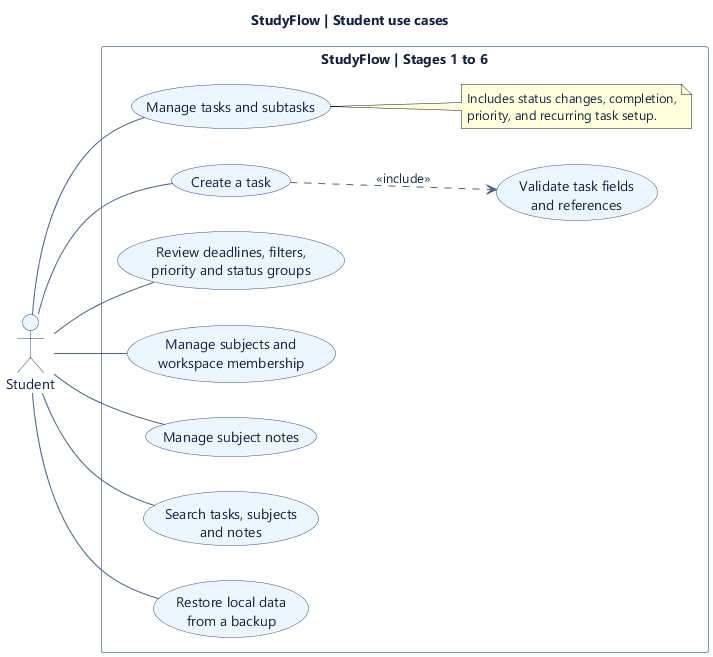
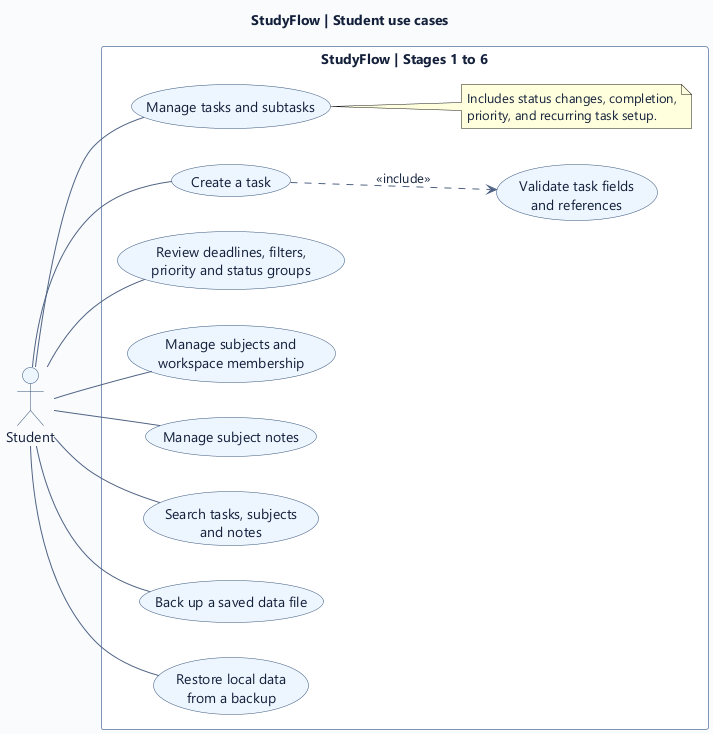
stage-6-manual-backup

diff --git a/src/test/java/com/studyflow/config/StudyFlowContextTest.java b/src/test/java/com/studyflow/config/StudyFlowContextTest.java
@@ -20,6 +20,8 @@ import java.time.ZoneOffset;
 import java.util.List;
 import org.junit.jupiter.api.Test;
 import org.junit.jupiter.api.io.TempDir;
+import org.junit.jupiter.params.ParameterizedTest;
+import org.junit.jupiter.params.provider.ValueSource;
 
 import static org.junit.jupiter.api.Assertions.*;
 
@@ -184,6 +186,108 @@ class StudyFlowContextTest {
         assertTrue(messages(failure).contains("Unknown subject ID"));
         assertFalse(Files.exists(subjects));
         assertEquals(noteBytes, Files.readString(notes));
+    }
+
+    @ParameterizedTest
+    @ValueSource(strings = {"tasks", "subjects", "workspaces", "notes", "settings"})
+    void manuallyBacksUpExactBytesOfFirstSavedVersion(String type) throws IOException {
+        saveLinkedProfile();
+        Path live = dataDirectory.resolve(type).resolve(type + ".json");
+        byte[] expected = Files.readAllBytes(live);
+        assertTrue(backupFiles().isEmpty());
+
+        Path backup = StudyFlowContext.backup(dataDirectory, type);
+
+        assertEquals(dataDirectory.resolve("backups"), backup.getParent());
+        assertTrue(backup.getFileName().toString().startsWith(type + "-manual-"));
+        assertTrue(backup.getFileName().toString().endsWith(".json"));
+        assertArrayEquals(expected, Files.readAllBytes(backup));
+        assertArrayEquals(expected, Files.readAllBytes(live));
+        assertEquals(List.of(backup), backupFiles());
+    }
+
+    @Test
+    void repeatedManualBackupsAreDistinctAndCanBeRestored() throws IOException {
+        String taskId;
+        try (StudyFlowContext profile = StudyFlowContext.open(dataDirectory, CLOCK)) {
+            taskId = profile.taskManager().quickAdd("First version", null, TODAY, null).getId();
+        }
+        Path first = StudyFlowContext.backup(dataDirectory, "tasks");
+        Path second = StudyFlowContext.backup(dataDirectory, "tasks");
+        assertNotEquals(first, second);
+        assertArrayEquals(Files.readAllBytes(first), Files.readAllBytes(second));
+        try (StudyFlowContext profile = StudyFlowContext.open(dataDirectory, CLOCK)) {
+            profile.taskManager().update(taskId, task -> task.setTitle("Later version"));
+        }
+
+        StudyFlowContext.restore(dataDirectory, "tasks", first);
+
+        try (StudyFlowContext profile = StudyFlowContext.open(dataDirectory, CLOCK)) {
+            assertEquals("First version", profile.taskManager().findById(taskId).orElseThrow().getTitle());
+        }
+        assertTrue(Files.isRegularFile(first));
+        assertTrue(Files.isRegularFile(second));
+    }
+
+    @Test
+    void rejectsManualBackupWhenTheSelectedFileHasNeverBeenSaved() throws IOException {
+        Path live = dataDirectory.resolve("tasks/tasks.json");
+
+        StorageException failure = assertThrows(StorageException.class,
+                () -> StudyFlowContext.backup(dataDirectory, "tasks"));
+
+        assertEquals(live, failure.getPath());
+        assertFalse(Files.exists(live));
+        assertTrue(backupFiles().isEmpty());
+    }
+
+    @Test
+    void rejectsManualBackupForACorruptedProfileAndPreservesExistingFiles() throws IOException {
+        saveLinkedProfile();
+        Path validBackup = StudyFlowContext.backup(dataDirectory, "tasks");
+        byte[] backupBytes = Files.readAllBytes(validBackup);
+        Path notes = dataDirectory.resolve("notes/notes.json");
+        Files.writeString(notes, "{ damaged");
+
+        StorageException failure = assertThrows(StorageException.class,
+                () -> StudyFlowContext.backup(dataDirectory, "tasks"));
+
+        assertEquals(notes, failure.getPath());
+        assertEquals("{ damaged", Files.readString(notes));
+        assertEquals(List.of(validBackup), backupFiles());
+        assertArrayEquals(backupBytes, Files.readAllBytes(validBackup));
+        assertArrayEquals(backupBytes, Files.readAllBytes(dataDirectory.resolve("tasks/tasks.json")));
+    }
+
+    @Test
+    void manualBackupRespectsTheProfileLock() throws IOException {
+        try (StudyFlowContext profile = StudyFlowContext.open(dataDirectory, CLOCK)) {
+            profile.taskManager().quickAdd("Locked task", null, TODAY, null);
+
+            IOException failure = assertThrows(IOException.class,
+                    () -> StudyFlowContext.backup(dataDirectory, "tasks"));
+
+            assertTrue(failure.getMessage().contains(dataDirectory.toString()));
+            assertTrue(backupFiles().isEmpty());
+            assertEquals("Locked task", profile.taskManager().findAll().getFirst().getTitle());
+        }
+        assertTrue(Files.isRegularFile(StudyFlowContext.backup(dataDirectory, "tasks")));
+    }
+
+    private void saveLinkedProfile() throws IOException {
+        try (StudyFlowContext profile = StudyFlowContext.open(dataDirectory, CLOCK)) {
+            String subjectId = profile.subjectManager().create("Physics", "PHY", "", List.of()).getId();
+            profile.workspaceManager().create("Autumn", "", List.of(subjectId));
+            profile.taskManager().quickAdd("Problem set", subjectId, TODAY, Priority.HIGH);
+            profile.noteManager().create("Lecture", "Practice the example", subjectId, List.of());
+            profile.saveSettings(profile.settings());
+        }
+    }
+
+    private List<Path> backupFiles() throws IOException {
+        try (var files = Files.list(dataDirectory.resolve("backups"))) {
+            return files.sorted().toList();
+        }
     }
 
     private Path firstBackup(String prefix) throws IOException {

diff --git a/src/main/java/com/studyflow/repository/FileStorage.java b/src/main/java/com/studyflow/repository/FileStorage.java
@@ -110,6 +110,18 @@ public final class FileStorage implements AutoCloseable {
         replace(path, bytes, previousBytes, false);
     }
 
+    /** Copies the exact current bytes of a validated snapshot to a new timestamped backup. */
+    synchronized <D, T> Path backup(Path path, JavaType type, Function<D, T> decode) {
+        ensureOpen();
+        byte[] bytes = readIfPresent(path);
+        if (bytes == null) {
+            throw new StorageException(path, "No saved data file to back up", null);
+        }
+        D document = readDocument(path, bytes, type);
+        validate(path, document, decode);
+        return writeBackup(path, bytes, "-manual-");
+    }
+
     /** Decodes and validates the exact backup bytes that will replace the live file. */
     synchronized <D, T> void restore(Path path, Path backup, JavaType type, Function<D, T> decode,
                                     Consumer<T> validateCandidate) {
@@ -179,7 +191,7 @@ public final class FileStorage implements AutoCloseable {
         Path pending = stage(path, bytes);
         try {
             if (previousBytes != null) {
-                backup(path, previousBytes, restoring);
+                writeBackup(path, previousBytes, restoring ? "-before-restore-" : "-");
             }
             moveIntoPlace(pending, path);
         } finally {
@@ -187,10 +199,9 @@ public final class FileStorage implements AutoCloseable {
         }
     }
 
-    private void backup(Path path, byte[] bytes, boolean restoring) {
+    private Path writeBackup(Path path, byte[] bytes, String marker) {
         String file = path.getFileName().toString();
         String prefix = file.substring(0, file.lastIndexOf('.'));
-        String marker = restoring ? "-before-restore-" : "-";
         Path backup = backupDirectory.resolve(prefix + marker + BACKUP_TIME.format(Instant.now())
                 + "-" + UUID.randomUUID() + ".json");
         Path pending = stage(backup, bytes);
@@ -199,6 +210,7 @@ public final class FileStorage implements AutoCloseable {
         } finally {
             removeTemporaryFile(pending);
         }
+        return backup;
     }
 
     private static Path stage(Path path, byte[] bytes) {

diff --git a/src/main/java/com/studyflow/Main.java b/src/main/java/com/studyflow/Main.java
@@ -22,16 +22,27 @@ import javax.swing.JFrame;
 import javax.swing.JOptionPane;
 import javax.swing.SwingUtilities;
 
-/** Configures and starts the Swing desktop application. */
+/** Starts the Swing desktop application or runs a local data command. */
 public final class Main {
     private Main() {
     }
 
     public static void main(String[] args) throws IOException {
-        int restoreIndex = args.length > 0 && "--data-dir".equals(args[0]) ? 2 : 0;
-        if (args.length > restoreIndex && "--restore".equals(args[restoreIndex])) {
-            restore(args, restoreIndex);
-            return;
+        int commandIndex = args.length > 0 && "--data-dir".equals(args[0]) ? 2 : 0;
+        if (args.length > commandIndex) {
+            switch (args[commandIndex]) {
+                case "--backup" -> {
+                    backup(args, commandIndex);
+                    return;
+                }
+                case "--restore" -> {
+                    restore(args, commandIndex);
+                    return;
+                }
+                default -> {
+                    // Normal launch arguments are validated by AppConfig.
+                }
+            }
         }
         AppConfig config = AppConfig.fromArgs(args);
         if (GraphicsEnvironment.isHeadless()) {
@@ -42,6 +53,16 @@ public final class Main {
         CompletableFuture<Void> finished = new CompletableFuture<>();
         worker.execute(() -> initialize(config, worker, finished));
         finished.join();
+    }
+
+    private static void backup(String[] args, int commandIndex) throws IOException {
+        if (args.length != commandIndex + 2) {
+            throw new IllegalArgumentException("Usage: StudyFlow [--data-dir <directory>] "
+                    + "--backup <tasks|subjects|workspaces|notes|settings>");
+        }
+        AppConfig config = AppConfig.fromArgs(Arrays.copyOf(args, commandIndex));
+        Path backup = StudyFlowContext.backup(config.dataDirectory(), args[commandIndex + 1]);
+        System.out.println("Created backup " + backup);
     }
 
     private static void restore(String[] args, int restoreIndex) throws IOException {

diff --git a/src/main/java/com/studyflow/config/StudyFlowContext.java b/src/main/java/com/studyflow/config/StudyFlowContext.java
@@ -79,6 +79,29 @@ public final class StudyFlowContext implements AutoCloseable {
         }
     }
 
+    /** Locks and validates the profile before backing up one saved record type. */
+    public static Path backup(Path dataDirectory, String type) throws IOException {
+        Path directory = dataDirectory.toAbsolutePath().normalize();
+        try (DataDirectoryLock ignored = acquire(directory); FileStorage storage = new FileStorage(directory)) {
+            ProfileRepositories repositories = new ProfileRepositories(storage);
+            UserSettings settings = repositories.settings().load();
+            List<Subject> subjects = repositories.subjects().load();
+            List<Workspace> workspaces = repositories.workspaces().load();
+            List<Task> tasks = repositories.tasks().load();
+            List<Note> notes = repositories.notes().load();
+            validateProfile(directory, tasks, subjects, workspaces, notes, settings);
+
+            return switch (type) {
+                case "tasks" -> repositories.tasks().backup();
+                case "subjects" -> repositories.subjects().backup();
+                case "workspaces" -> repositories.workspaces().backup();
+                case "notes" -> repositories.notes().backup();
+                case "settings" -> repositories.settings().backup();
+                default -> throw new IllegalArgumentException("Unknown record type for backup: " + type);
+            };
+        }
+    }
+
     public static void restore(Path dataDirectory, String type, Path backup) throws IOException {
         Path directory = dataDirectory.toAbsolutePath().normalize();
         try (DataDirectoryLock ignored = acquire(directory); FileStorage storage = new FileStorage(directory)) {

diff --git a/src/main/java/com/studyflow/repository/JsonCollectionRepository.java b/src/main/java/com/studyflow/repository/JsonCollectionRepository.java
@@ -49,6 +49,11 @@ abstract class JsonCollectionRepository<T extends Identifiable, D> implements Re
         storage.write(path, listType, candidate, this::decode);
     }
 
+    /** Creates a timestamped backup of the current validated collection. */
+    public final Path backup() {
+        return storage.backup(path, listType, this::decode);
+    }
+
     /** Validates a selected backup and commits the same bytes after the supplied checks pass. */
     public final void restore(Path backup, Consumer<List<T>> validateCandidate) {
         storage.restore(path, backup, listType, this::decode, validateCandidate);

diff --git a/src/main/java/com/studyflow/repository/SettingsRepository.java b/src/main/java/com/studyflow/repository/SettingsRepository.java
@@ -35,6 +35,11 @@ public final class SettingsRepository implements Storage<UserSettings> {
         storage.write(path, type, SettingsRecord.from(settings), SettingsRecord::toDomain);
     }
 
+    /** Creates a timestamped backup of the current validated settings. */
+    public Path backup() {
+        return storage.backup(path, type, SettingsRecord::toDomain);
+    }
+
     public void restore(Path backup, Consumer<UserSettings> validateCandidate) {
         storage.restore(path, backup, type, SettingsRecord::toDomain, validateCandidate);
     }

diff --git a/docs/stage-reports/stage-6-report.md b/docs/stage-reports/stage-6-report.md
@@ -1,0 +1,45 @@
+# Stage 6 report · Persistence and manual backup
+
+## Objective
+
+Verify the existing local persistence against the continuation brief and add an on-demand backup that works with the existing recovery command.
+
+## Existing code inspected
+
+The project began at commit `7d05987` with a clean working tree. The Stage 1–5 reports, Maven configuration, model and service packages, repository contracts, Swing entry point, and tests confirmed that the previous stages were present. The persistence layer already had five typed JSON repositories, immediate saves, startup validation, automatic backup of previous versions, and validated per-file recovery. Before changes, a fresh offline build with OpenJDK 21.0.13 and Maven 3.9.16 passed all 62 tests. See the [initial Stage 6 report](stage-6.md) for the original implementation.
+
+## Features implemented
+
+- The `--backup` command backs up a saved task, subject, workspace, note or settings file and prints the absolute backup path. An optional `--data-dir` selects the profile.
+- `StudyFlowContext.backup` acquires the existing profile lock, reads all five repositories and validates their references. It then asks the selected repository to back up its current snapshot.
+- The repositories apply their usual typed validation. `FileStorage.backup` writes the exact validated bytes to a new timestamped file using the same temporary write and atomic move as automatic backups. Existing live files and backups are preserved.
+
+## Files created
+
+- `docs/stage-reports/stage-6-report.md`
+
+## Files modified
+
+- `Main.java` and `config/StudyFlowContext.java`
+- `repository/FileStorage.java`, `JsonCollectionRepository.java` and `SettingsRepository.java`
+- `src/test/java/com/studyflow/config/StudyFlowContextTest.java`
+- `README.md`, the SRS, architecture, design decisions, development log and use-case UML source and PNG
+
+## OOP concepts and dependencies
+
+The backup uses the same repository abstraction as normal persistence. The collection repository shares the implementation across the four collection types, and the settings repository supplies its own typed decoder. `FileStorage` encapsulates byte-level operations. Try-with-resources keeps the storage lifecycle and profile lock scoped to the command. This stage added no dependencies.
+
+## Tests performed and results
+
+- An offline `mvn clean test` on Windows compiled 57 main source files and passed **71 tests** with zero failures, errors or skips. Nine added cases cover first-save backups of all five data types, exact bytes, unique names, restore, missing files, corrupt profiles and lock contention.
+- A Windows Maven CLI smoke test backed up a fixture profile in a directory with spaces, restored the manual backup and verified that the damaged original was preserved.
+- A two-process Swing smoke test created a subject, a linked task, a workspace and a note in an isolated profile. A second launch displayed the same records and subject links.
+- PlantUML syntax checks passed, and the updated use-case diagram was rendered and visually checked.
+
+## Known limitations
+
+Manual backup and recovery operate on one data type per command. The profile must be closed so the command can acquire its lock. A manual backup requires a saved file and a valid profile. The destination filesystem must support atomic moves.
+
+## Next-stage dependencies
+
+Stage 7 can build the dashboard and navigation on the current task, subject, workspace, note and settings services. It can reuse the Swing shell, background executor and JSON repositories. Stage 7 is awaiting approval.

diff --git a/docs/SRS.md b/docs/SRS.md
@@ -87,7 +87,7 @@ Task register listings, search, filters, date views and Kanban grouping return r
 | DATA-02 | 6 | Store data under the configurable `data` directory in `tasks/tasks.json`, `subjects/subjects.json`, `workspaces/workspaces.json`, `notes/notes.json`, and `settings/settings.json`. Use stable enum names, ISO date and timestamp strings, explicit handling of optional fields, and subject IDs. Preserve subtask trees, subtype fields, and associations across reopen. |
 | DATA-03 | 6 | Create required directories at startup, load and validate existing data and its references, and initialize empty collections and default settings on a fresh installation. Meaningful errors shall identify the cause and affected path for corrupt or empty JSON, invalid dates and enum values, directory creation and file access errors, and serialization or deserialization failures. A failed load shall preserve existing files and prevent an unsafe writable session. |
 | DATA-04 | 6 | Automatically save successful mutations. Validate before publishing changes and preserve the prior state when an operation fails. Write serialized data to a temporary file and use safe replacement where supported. Skip redundant writes for unchanged data. Complete queued saves before closing the application and release file resources and executors. |
-| DATA-05 | 6 | Maintain timestamped local backups under `data/backups/`, preserving prior valid data and avoiding replacement of the only valid copy. Provide a documented manual restore workflow. Validate the selected backup and its relationships before enabling normal writes. Invalid or corrupt data shall remain available for recovery or diagnosis. |
+| DATA-05 | 6 | Maintain timestamped local backups under `data/backups/`, preserving prior valid data and avoiding replacement of the only valid copy. Provide a manual command to back up the current saved file for a selected record type after validating the profile. Report an error if the selected file is missing. Provide a documented per-file restore workflow that validates the proposed profile before replacing the live file. Invalid or corrupt data shall remain available for recovery or diagnosis. |
 | DATA-06 | 6 | From the initial desktop shell, a student shall be able to create a task, subject, workspace, and note, close StudyFlow, and see the same records after restart. Include a restart acceptance check in addition to repository and service tests. |
 
 ## Non-functional requirements

diff --git a/README.md b/README.md
@@ -42,10 +42,20 @@ By default, StudyFlow uses the `data` directory next to `pom.xml`. It writes sep
 mvn exec:java "-Dexec.args=--data-dir 'C:/StudyFlow data'"
 ```
 
-When a saved file changes, StudyFlow keeps a timestamped copy of the preceding valid file under `data/backups`. Saving requires a filesystem that supports atomic file replacement. A damaged file blocks normal startup and is preserved. To recover a file, close StudyFlow, choose a backup and pass the corresponding type (`tasks`, `subjects`, `workspaces`, `notes` or `settings`). The CLI validates the backup against the current profile before replacing the file. It preserves the previous file for inspection.
+When a saved file changes, StudyFlow keeps a timestamped copy of the preceding valid file under `data/backups`. Saving requires a filesystem that supports atomic file replacement.
+
+To back up the latest saved file, close StudyFlow and select its type (`tasks`, `subjects`, `workspaces`, `notes` or `settings`).
 
 ```powershell
-$backup = (Resolve-Path 'data/backups/tasks-<timestamp>-<id>.json').Path.Replace('\', '/')
+mvn exec:java '-Dexec.args=--backup tasks'
+```
+
+The command validates the profile and saves an exact copy under `data/backups`, with a name like `tasks-manual-<UTC timestamp>-<uuid>.json`. It prints the full path. If the selected type has no saved file yet, the command reports an error. To back up an alternate profile, put `--data-dir` before `--backup`.
+
+To recover a file, close StudyFlow, choose an automatic or manual backup, and pass the corresponding type. The CLI validates the backup against the current profile before replacing the file. It preserves the previous file for inspection, including damaged data.
+
+```powershell
+$backup = (Resolve-Path 'data/backups/tasks-manual-<timestamp>-<uuid>.json').Path.Replace('\', '/')
 mvn exec:java "-Dexec.args=--restore tasks '$backup'"
 ```
 

diff --git a/docs/architecture.md b/docs/architecture.md
@@ -50,6 +50,8 @@ A root task can recur daily, weekly or monthly and needs a deadline. Its first c
 
 Startup loads each file if present, supplies empty lists or default settings for missing files, then checks the complete set for duplicate IDs and dangling references. An existing empty or invalid file is reported as damaged and left intact. The `--restore` command locks the profile without using normal startup. It validates a selected per-file backup and checks the proposed dataset against current sibling files before replacing the destination. Restore preserves the previous bytes, including damaged bytes when present, for inspection. The chosen data root is locked against a second StudyFlow writer. Across services the single application worker is the concurrency boundary for operations that depend on multiple record types.
 
+The `--backup` command locks and validates the profile, then copies the selected live JSON file to `data/backups`. `FileStorage` validates the selected bytes before writing them to a uniquely named file with a UTC timestamp. The same per-file restore command accepts manual and automatic backups.
+
 | File | Snapshot |
 | --- | --- |
 | `data/tasks/tasks.json` | Root tasks with nested subtasks, type-specific data and recurrence advancement state |
@@ -57,7 +59,7 @@ Startup loads each file if present, supplies empty lists or default settings for
 | `data/workspaces/workspaces.json` | Workspaces and ordered subject IDs |
 | `data/notes/notes.json` | Plain-text notes, tags, timestamps and optional subject IDs |
 | `data/settings/settings.json` | Local profile settings |
-| `data/backups/` | Timestamped previous files and preserved originals from recovery |
+| `data/backups/` | Timestamped automatic and manual backups, and preserved originals from recovery |
 
 ## Extension paths
 

diff --git a/docs/design-decisions.md b/docs/design-decisions.md
@@ -32,7 +32,7 @@ Search trims whitespace, normalizes case with `Locale.ROOT` and matches all whit
 
 ## D08 · Backup and recovery
 
-Stage 1 lists backup and restore among future data capabilities and Stage 6 explicitly requires a basic implementation. Stage 6 provides timestamped previous-file backups and an explicit single-file restore path. Whole-profile restore and retention scheduling can be added later. Existing empty, malformed or invalid data blocks normal startup with a useful error and is preserved. Missing files default to empty data or settings only when the complete relationship graph remains valid. A failed restore leaves the original in place. Writes use a verified candidate and temporary replacement, with a backup made before replacing a valid current file.
+Stage 6 provides timestamped automatic backups of previous files, manual backups of current saved files, and per-file restore. Both kinds of backup retain the original JSON bytes and use unique filenames so they remain available independently. The manual command requires a valid profile and an existing file of the chosen type. Existing empty, malformed or invalid data blocks normal startup with a useful error and is preserved. Missing files default to empty data or settings only when the complete relationship graph remains valid. A failed restore leaves the original in place. Writes use a verified candidate and temporary replacement, with a backup made before replacing a valid current file.
 
 ## D09 · Course examples and future integrations
 

diff --git a/docs/development-log.md b/docs/development-log.md
@@ -33,3 +33,8 @@
 
 - Connected the task, subject, workspace, note and settings snapshots to Jackson-backed JSON files. Added previous-file backups and a validated restore command.
 - Added a data directory lock, a managed serial executor for file work and four lightweight verification tabs.
+
+### 13 November · Stage 6 continuation
+
+- Audited the existing persistence and verified the 62-test baseline. Added a manual backup command using the existing profile lock, typed repository checks and atomic file writing.
+- Passed 71 tests, verified command-line backup and recovery with a spaced directory path, and repeated the two-process Swing restart check. Updated the requirements, architecture, use-case diagram and Stage 6 report.
